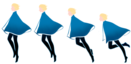
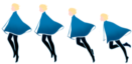
Fixed image sizes for dashing

diff --git a/core/src/edu/cornell/gdiac/somniphobia/game/models/CharacterModel.java b/core/src/edu/cornell/gdiac/somniphobia/game/models/CharacterModel.java
@@ -104,7 +104,7 @@ public class CharacterModel extends CapsuleObstacle {
 	/** Pixel width of the current texture */
 	private double entirePixelWidth;
 	/** Pixel width of the current frame in the texture */
-	private double framePixelWidth = 32;
+	private double framePixelWidth = 33;
 
 	/** Getters and setters*/
 	public float getDashEndVelocity() { return dashEndVelocity; }
